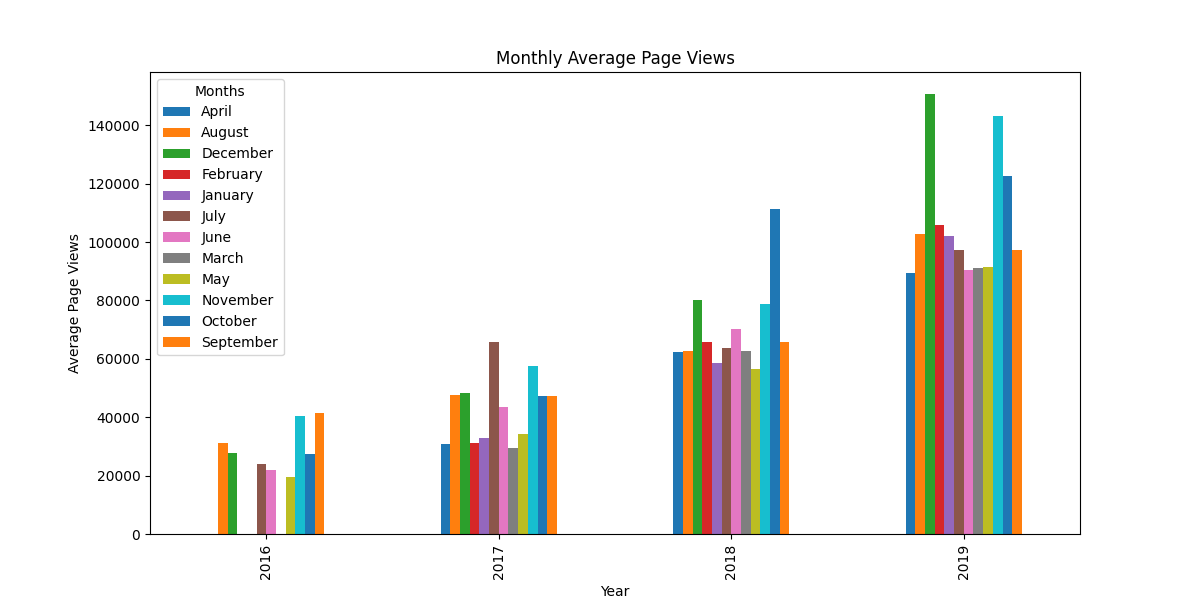
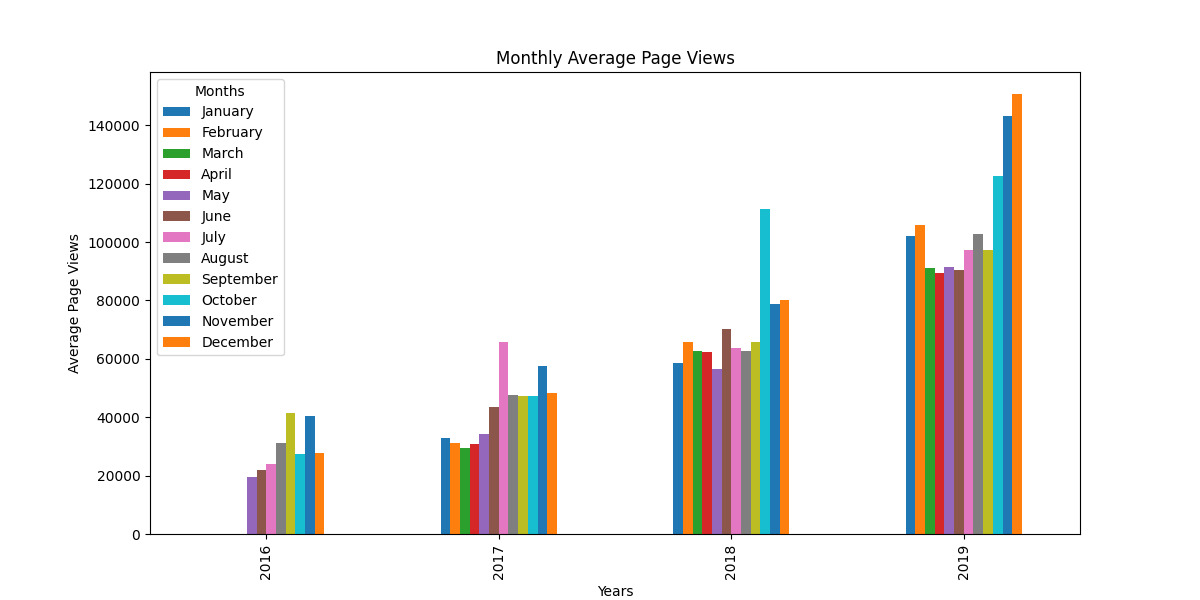
ordered the months in the box plot

diff --git a/time_series_visualizer.py b/time_series_visualizer.py
@@ -72,7 +72,11 @@ def draw_box_plot():
     df_box = df.copy()
     df_box.reset_index(inplace=True)
     df_box['year'] = [d.year for d in df_box.date]
-    df_box['month'] = [d.strftime('%b') for d in df_box.date]
+    df_box['month'] = [d.strftime('%b') for d in df_box.date] # %b abbreviate the month 'January' - 'Jan'
+
+    #month order
+    month_order = ['Jan', 'Feb', 'Mar', 'Apr', 'May', 'Jun',
+               'Jul', 'Aug', 'Sep', 'Oct', 'Nov', 'Dec']
 
     # Draw box plots (using Seaborn)
     # Initialize the figure and axes
@@ -85,7 +89,7 @@ def draw_box_plot():
 
     sns.boxplot(
         data = df_box, x="month", y="value", whis =[0, 99], palette="Set2", ax=ax[1],
-        flierprops=dict(marker='D', markerfacecolor='black', markersize=2)
+        flierprops=dict(marker='D', markerfacecolor='black', markersize=2), order=month_order
     )
 
 
